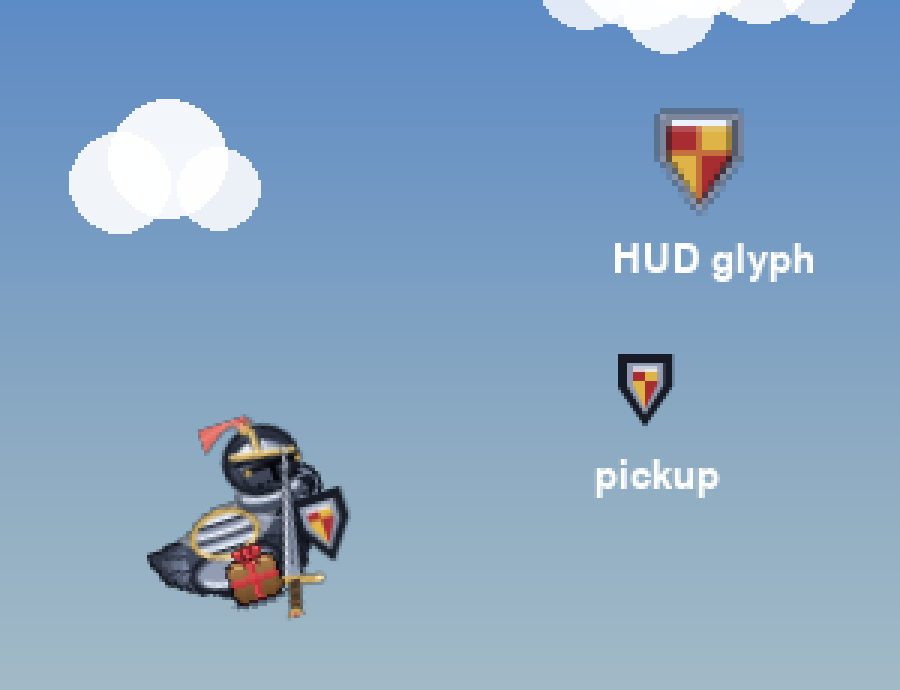
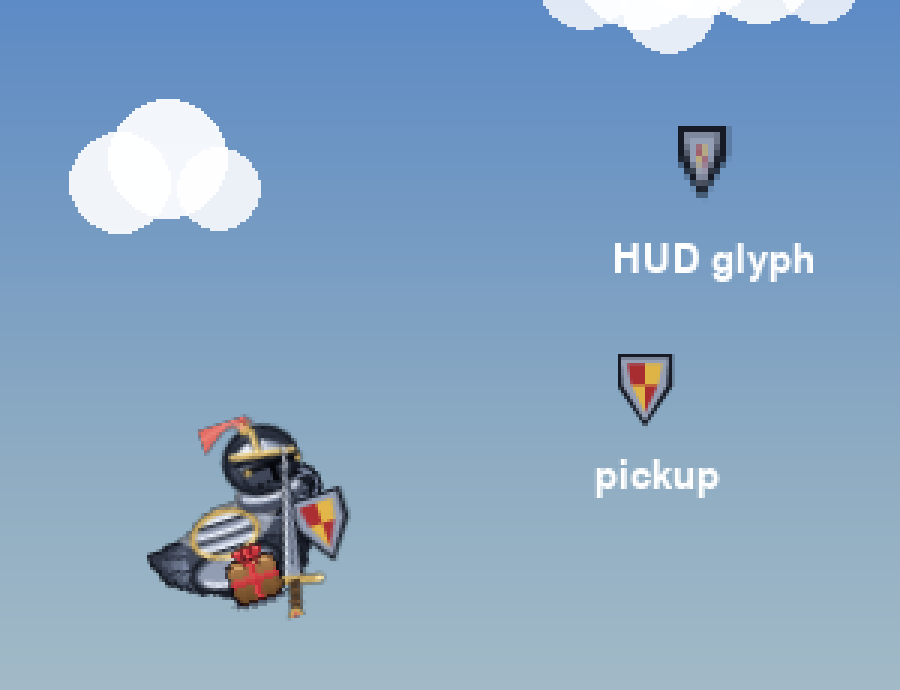
Use the canonical thin-rim K7 shield (drop the heavy steel border)
The ported shield used a thick MID rim (and the HUD glyph added a MID
perimeter polyline on top), which read as a heavy blue-grey border. Swap
in the canonical draw_kn_quarterly recipe — dark edge + a thin STM steel
rim + clipped gules/or quarters — and share it across the chest shield,
the pickup icon, and the HUD glyph.

https://claude.ai/code/session_01Ms85cBEeRiAtxZBCNh5vN5

Changed region(s): [[0.7156, 0.1522, 0.84, 0.3043], [0.3111, 0.7, 0.4044, 0.8217], [0.6844, 0.5174, 0.7467, 0.6087]]

diff --git a/game/knight_skin.py b/game/knight_skin.py
@@ -18,6 +18,8 @@ from game import parrot
 # Steel + heraldry palette (shared across helm / breastplate / shield).
 OL = (24, 28, 38); D = (70, 78, 96); MID = (146, 156, 178); HI = (238, 244, 255)
 BRASS = (208, 174, 98); BRASS_HI = (255, 232, 168); CRIM = (160, 44, 48)
+# Canonical K7 heraldry (matches tools/render_shield_icon_variants draw_kn_quarterly).
+STM = (150, 160, 182); GULES = (170, 46, 50); ORC = (226, 182, 72)
 
 # Shield on the front of the chest (fx, fy, w-frac, h-frac of the body rect).
 _SHIELD_POS = (0.92, 0.58, 0.36, 0.46)
@@ -87,25 +89,37 @@ def _plate(big, s, rx, ry, rw, rh):
     pygame.draw.arc(big, HI, (rx + int(3 * s), ry + int(2 * s), rw - int(6 * s), rh - int(4 * s)), math.radians(202), math.radians(338), max(1, int(1.6 * s)))
 
 
+def _heater_pts(w, h, pad):
+    return [(pad, pad), (w - pad, pad), (w - pad, h * 0.46), (w / 2, h - pad), (pad, h * 0.46)]
+
+
+def _inset(points, k):
+    cx = sum(p[0] for p in points) / len(points)
+    cy = sum(p[1] for p in points) / len(points)
+    out = []
+    for x, y in points:
+        dx, dy = cx - x, cy - y
+        d = math.hypot(dx, dy) or 1.0
+        out.append((x + dx / d * k, y + dy / d * k))
+    return out
+
+
 def _shield(big, s):
-    """K7 heater: quarterly gules/or with a steel rim + sheen."""
-    w, h = big.get_size(); cxg = w // 2
-    GUL = (170, 46, 50); GOLD = (226, 182, 72)
-    outer = [(3 * s, 3 * s), (w - 3 * s, 3 * s), (w - 3 * s, h * 0.46), (cxg, h - 3 * s), (3 * s, h * 0.46)]
-    field = [(8 * s, 8 * s), (w - 8 * s, 8 * s), (w - 8 * s, h * 0.44), (cxg, h - 9 * s), (8 * s, h * 0.44)]
-    pygame.draw.polygon(big, OL, outer)
-    pygame.draw.polygon(big, MID, [(6 * s, 6 * s), (w - 6 * s, 6 * s), (w - 6 * s, h * 0.45), (cxg, h - 7 * s), (6 * s, h * 0.45)])
-    qy = h * 0.4
+    """K7 heater: quarterly gules/or, thin steel rim (canonical design)."""
+    w, h = big.get_size(); cx, cy = w / 2, h * 0.45
+    pts = _heater_pts(w, h, 3 * s)
+    pygame.draw.polygon(big, OL, pts)
+    pygame.draw.polygon(big, STM, _inset(pts, 1.7 * s))
+    fpts = _inset(pts, 4.6 * s)
     tmp = pygame.Surface((w, h), pygame.SRCALPHA)
-    pygame.draw.rect(tmp, GUL, (0, 0, int(cxg), int(qy)))
-    pygame.draw.rect(tmp, GOLD, (int(cxg), 0, int(w - cxg), int(qy)))
-    pygame.draw.rect(tmp, GOLD, (0, int(qy), int(cxg), int(h - qy)))
-    pygame.draw.rect(tmp, GUL, (int(cxg), int(qy), int(w - cxg), int(h - qy)))
+    pygame.draw.rect(tmp, GULES, (0, 0, int(cx), int(cy)))
+    pygame.draw.rect(tmp, ORC, (int(cx), 0, int(w - cx), int(cy)))
+    pygame.draw.rect(tmp, ORC, (0, int(cy), int(cx), int(h - cy)))
+    pygame.draw.rect(tmp, GULES, (int(cx), int(cy), int(w - cx), int(h - cy)))
     mask = pygame.Surface((w, h), pygame.SRCALPHA)
-    pygame.draw.polygon(mask, (255, 255, 255, 255), field)
+    pygame.draw.polygon(mask, (255, 255, 255, 255), fpts)
     tmp.blit(mask, (0, 0), special_flags=pygame.BLEND_RGBA_MIN)
     big.blit(tmp, (0, 0))
-    pygame.draw.line(big, HI, (int(8 * s), int(8 * s)), (int(w - 8 * s), int(8 * s)), max(1, int(1.4 * s)))
 
 
 def _breast(big, s):
@@ -233,27 +247,6 @@ def draw_shield_icon(surf, cx, cy, size=30):
     _blit_ss(surf, cx, cy, int(size * 0.82), size, _shield, scale=5)
 
 
-def _shield_glyph(big, s):
-    """Bold heater for tiny HUD sizes — thin rim, big quarters."""
-    w, h = big.get_size(); cxg = w // 2
-    GUL = (170, 46, 50); GOLD = (226, 182, 72)
-    outer = [(1 * s, 1 * s), (w - 1 * s, 1 * s), (w - 1 * s, h * 0.46), (cxg, h - 1 * s), (1 * s, h * 0.46)]
-    field = [(2.5 * s, 2.5 * s), (w - 2.5 * s, 2.5 * s), (w - 2.5 * s, h * 0.45), (cxg, h - 2.5 * s), (2.5 * s, h * 0.45)]
-    pygame.draw.polygon(big, OL, outer)
-    qy = h * 0.42
-    tmp = pygame.Surface((w, h), pygame.SRCALPHA)
-    pygame.draw.rect(tmp, GUL, (0, 0, int(cxg), int(qy)))
-    pygame.draw.rect(tmp, GOLD, (int(cxg), 0, int(w - cxg), int(qy)))
-    pygame.draw.rect(tmp, GOLD, (0, int(qy), int(cxg), int(h - qy)))
-    pygame.draw.rect(tmp, GUL, (int(cxg), int(qy), int(w - cxg), int(h - qy)))
-    mask = pygame.Surface((w, h), pygame.SRCALPHA)
-    pygame.draw.polygon(mask, (255, 255, 255, 255), field)
-    tmp.blit(mask, (0, 0), special_flags=pygame.BLEND_RGBA_MIN)
-    big.blit(tmp, (0, 0))
-    pygame.draw.lines(big, MID, True, outer, max(1, int(1.4 * s)))
-    pygame.draw.line(big, HI, (int(2.5 * s), int(2.5 * s)), (int(w - 2.5 * s), int(2.5 * s)), max(1, int(1.2 * s)))
-
-
 def draw_shield_glyph(surf, cx, cy, size=22):
-    """Compact HUD timer glyph — same heraldry, readable small."""
-    _blit_ss(surf, cx, cy, int(size * 0.86), size, _shield_glyph, scale=6)
+    """Compact HUD timer glyph — the same canonical heater shield."""
+    _blit_ss(surf, cx, cy, int(size * 0.82), size, _shield, scale=6)
